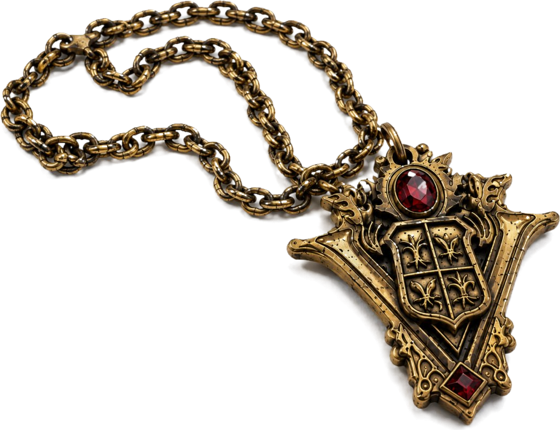
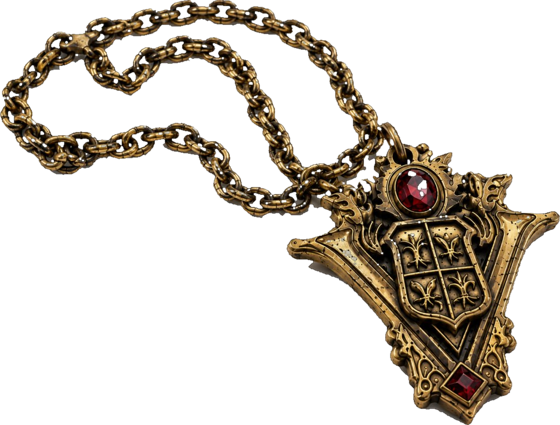
pano: item comments under enlarged images; cleaner pendant cutout (Maria 08.10)

Changed region(s): [[0.0, 0.0, 1.0, 1.0], [0.425, 0.1529, 0.4554, 0.1835], [0.3946, 0.1835, 0.425, 0.2141]]

diff --git a/pano/index.html b/pano/index.html
@@ -115,13 +115,19 @@
   <div id="flash"></div>
 </div></div>
 <div id="tray"></div>
-<div id="zoom"><img alt=""><div class="bignote"></div></div>
+<div id="zoom"><img alt=""><div class="bignote"></div><div class="zcap"></div></div>
 <div id="paper"><div id="sheet"><ol></ol><div id="back">← Panoya dön</div></div></div>
 <div id="mute" title="Ses">🔊</div>
 <div id="gate"><h1>David Reed nerede?</h1><p>Girmek için tıklayın 🔊</p></div>
 <style>
   #zoom { position:fixed; inset:0; z-index:150; display:none; align-items:center; justify-content:center; background:rgba(0,0,0,.6); cursor:zoom-out; }
-  #zoom.on { display:flex; }
+  #zoom.on { display:flex; flex-direction:column; gap:14px; }
+  /* Maria 08.10: the item's comment stays visible under the enlarged image */
+  #zoom .zcap { display:none; max-width:min(70vw, 760px); font: italic clamp(15px, 1.5vw, 21px) Georgia, "Times New Roman", serif; color:#1b1b1b;
+                background:#fff; padding:8px 16px; border-radius:4px; box-shadow:0 2px 10px rgba(0,0,0,.55); text-align:center; animation: zin .18s ease-out; }
+  #zoom.cap .zcap { display:block; }
+  #zoom.cap.doc img { max-height:80vh; }
+  #zoom.cap img { max-height:52vh; }
   #zoom img { max-width:min(46vw, 620px); max-height:58vh; filter: drop-shadow(4px 8px 16px rgba(0,0,0,.7)); animation: zin .18s ease-out; }
   #zoom.doc img { max-width:min(74vw, 1100px); max-height:88vh; }
   #zoom .bignote { display:none; max-width:min(44vw, 520px); padding:26px 30px; background:#f6e27c; color:#2a2414; font-family:'Caveat', 'Segoe Print', cursive;
@@ -156,7 +162,7 @@ const S1_PHOTO = { top:52.5, w:11, h:11 }, S1_NOTE = { top:65, w:17, h:13 };
 
 /* ---------------- stage 2 ---------------- */
 const S2_EVIDENCE = [
-  { id:'pendant', g:1, src:'s2_pendant.png', hover:"Uçurumun yanında bulduğumuz kolye" },
+  { id:'pendant', g:1, src:'s2_pendant.png?v=2', hover:"Uçurumun yanında bulduğumuz kolye" },
   { id:'city',    g:1, src:'s2_city.jpg',    hover:"Volterra, İtalya'da bir kasaba" },
   { id:'door',    g:1, src:'s2_door.jpg',    hover:"Volterra'da bir binanın kapısında bulunan gizemli sembol" },
   { id:'bald',    g:2, src:'s2_bald.png',    hover:"Nathan Whitmore, kanser hastası ünlü eksantrik milyarder" },
@@ -285,6 +291,9 @@ function link(a, b) { links.push({ a, b }); drawThreads(); }
 /* ---------- zoom ---------- */
 function openZoom(el) {
   zoom.className = 'on';
+  const cap = el.dataset && el.dataset.hover;
+  zoom.querySelector('.zcap').textContent = cap || '';
+  if (cap) zoom.classList.add('cap');
   if (el.classList && el.classList.contains('nt')) {
     zoom.classList.add('note'); znote.textContent = el.textContent; znote.classList.toggle('hyp', el.classList.contains('hyp'));
   } else {
